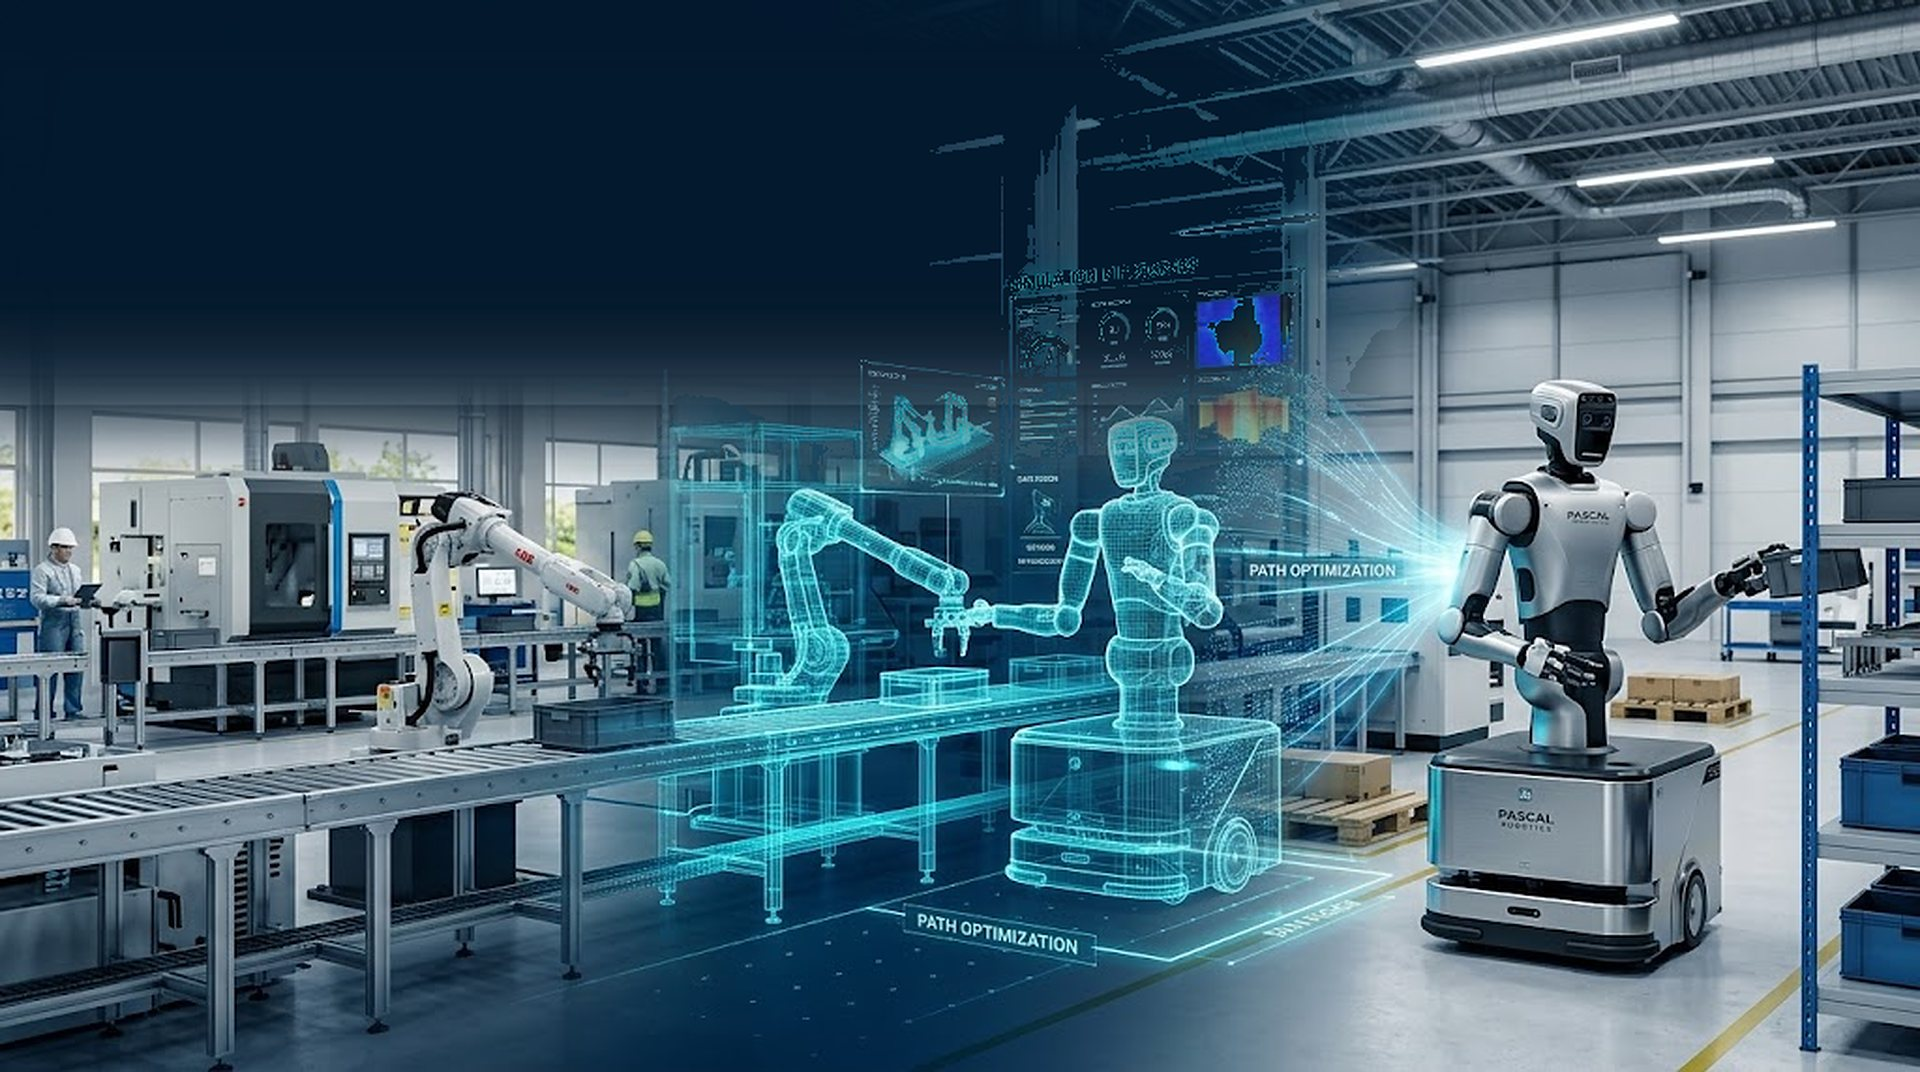
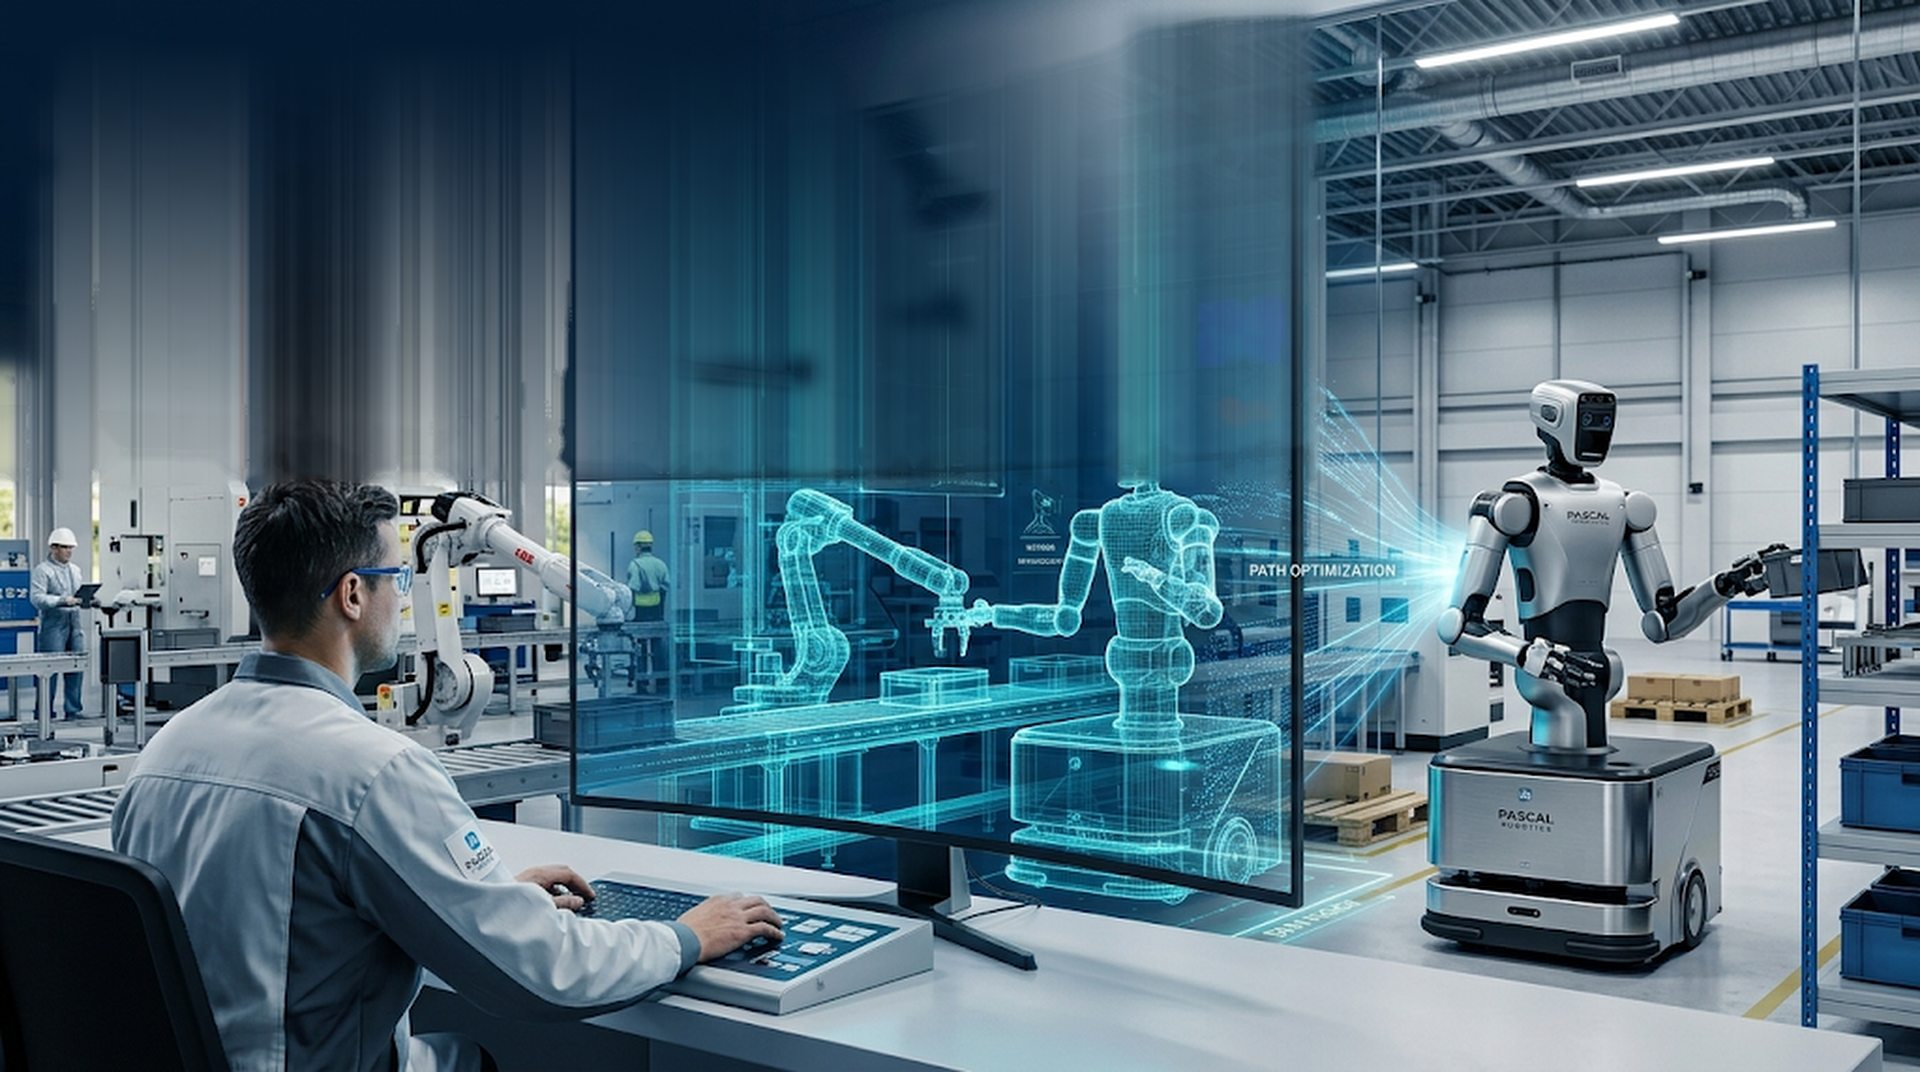
Center Digital Twin hero with lighter overlay and new image.
Clear baked-in FR copy from the operator/screen/robot hero, shrink and center typography, and keep the intelligence block as the second section.

diff --git a/index.html b/index.html
@@ -677,10 +677,10 @@ a, p, span, div { overflow-wrap:break-word; }
 /* Digital Twin landing hero */
 .hero-dt{
   position:relative;
-  min-height:min(92vh,920px);
+  min-height:min(88vh,880px);
   display:flex;
   align-items:stretch;
-  padding:0 0 56px;
+  padding:0;
   overflow:hidden;
   isolation:isolate;
 }
@@ -688,7 +688,7 @@ a, p, span, div { overflow-wrap:break-word; }
   position:absolute;
   inset:0;
   background-size:cover;
-  background-position:center 40%;
+  background-position:center 42%;
   background-repeat:no-repeat;
   z-index:0;
   transform:scale(1.02);
@@ -697,73 +697,82 @@ a, p, span, div { overflow-wrap:break-word; }
   position:absolute;
   inset:0;
   z-index:1;
+  /* Light vignette + soft bottom fade — image stays dominant */
   background:
-    linear-gradient(90deg,rgba(4,10,16,.88) 0%,rgba(4,10,16,.62) 42%,rgba(4,10,16,.28) 68%,rgba(4,10,16,.45) 100%),
-    linear-gradient(180deg,rgba(5,10,14,.55) 0%,rgba(5,10,14,.18) 38%,rgba(5,10,14,.72) 100%);
+    radial-gradient(ellipse 70% 55% at 50% 48%,rgba(4,10,16,.34) 0%,rgba(4,10,16,.12) 55%,rgba(4,10,16,.22) 100%),
+    linear-gradient(180deg,rgba(5,10,14,.18) 0%,rgba(5,10,14,.06) 42%,rgba(5,10,14,.38) 100%);
   pointer-events:none;
 }
 .hero-dt-inner{
   position:relative;
   z-index:2;
   width:100%;
-  padding-top:28px;
+  padding:48px 0 56px;
   display:flex;
   flex-direction:column;
-  justify-content:flex-end;
+  align-items:center;
+  justify-content:center;
   min-height:inherit;
   box-sizing:border-box;
+  text-align:center;
 }
 
 .hero-dt-logo{
   display:flex;
   justify-content:center;
-  margin:0 0 28px;
+  margin:0 0 16px;
 }
 .hero-dt-logo img{
-  width:min(200px,42vw);
+  width:min(140px,36vw);
   height:auto;
   display:block;
-  filter:drop-shadow(0 10px 28px rgba(0,0,0,.45));
-  opacity:.95;
+  filter:drop-shadow(0 8px 22px rgba(0,0,0,.4));
+  opacity:.92;
 }
 @media (max-width: 760px) {
-  .hero-dt-logo{margin:0 0 18px}
-  .hero-dt-logo img{width:min(160px,48vw)}
+  .hero-dt-logo{margin:0 0 12px}
+  .hero-dt-logo img{width:min(112px,40vw)}
 }
 
 .hero-dt-content{
-  max-width:820px;
-  text-align:left;
+  max-width:640px;
+  width:100%;
+  margin:0 auto;
+  text-align:center;
 }
 .hero-dt-content .eyebrow{
   color:var(--blue);
-  margin-bottom:14px;
+  margin-bottom:10px;
+  font-size:11px;
+  letter-spacing:.14em;
+  text-transform:uppercase;
 }
 .hero-dt-content h1{
-  font-size:clamp(42px,6.4vw,84px);
-  line-height:.94;
-  letter-spacing:-.055em;
-  margin:0 0 16px;
+  font-size:clamp(32px,4.2vw,56px);
+  line-height:1.05;
+  letter-spacing:-.04em;
+  margin:0 0 12px;
   font-weight:900;
   color:#fff;
-  text-shadow:0 2px 28px rgba(0,0,0,.45);
+  text-shadow:0 2px 20px rgba(0,0,0,.4);
 }
 .hero-dt-content h1 .soft{
   color:var(--blue);
 }
 .hero-dt-content .lead{
-  margin:0 0 22px;
-  max-width:640px;
-  color:#d7e2e8;
-  font-size:clamp(16px,1.7vw,21px);
-  line-height:1.45;
-  text-shadow:0 1px 12px rgba(0,0,0,.35);
+  margin:0 auto 18px;
+  max-width:520px;
+  color:#e2eaef;
+  font-size:clamp(14px,1.35vw,17px);
+  line-height:1.4;
+  text-shadow:0 1px 10px rgba(0,0,0,.35);
 }
 .hero-dt-content .actions{
-  justify-content:flex-start;
+  justify-content:center;
+  flex-wrap:wrap;
 }
 .hero-dt-content .btn:not(.primary){
-  background:rgba(8,14,18,.55);
+  background:rgba(8,14,18,.45);
   backdrop-filter:blur(8px);
   border-color:rgba(255,255,255,.28);
   color:#f4f8fa;
@@ -812,18 +821,20 @@ a, p, span, div { overflow-wrap:break-word; }
 
 @media (max-width: 760px) {
   .hero-dt{
-    min-height:min(78vh,720px);
-    align-items:flex-end;
-    padding:0 0 36px;
+    min-height:min(76vh,700px);
+    align-items:stretch;
+    padding:0;
   }
-  .hero-dt-bg{background-position:72% 40%}
+  .hero-dt-inner{padding:36px 0 40px}
+  .hero-dt-bg{background-position:58% 40%}
   .hero-dt-overlay{
     background:
-      linear-gradient(180deg,rgba(4,10,16,.55) 0%,rgba(4,10,16,.35) 35%,rgba(4,10,16,.82) 100%),
-      linear-gradient(90deg,rgba(4,10,16,.75) 0%,rgba(4,10,16,.35) 100%);
+      radial-gradient(ellipse 80% 60% at 50% 48%,rgba(4,10,16,.40) 0%,rgba(4,10,16,.16) 58%,rgba(4,10,16,.28) 100%),
+      linear-gradient(180deg,rgba(5,10,14,.22) 0%,rgba(5,10,14,.08) 40%,rgba(5,10,14,.48) 100%);
   }
-  .hero-dt-content h1{font-size:clamp(34px,10vw,52px)}
-  .hero-dt-content .actions{gap:10px}
+  .hero-dt-content h1{font-size:clamp(28px,8vw,42px)}
+  .hero-dt-content .lead{font-size:clamp(13px,3.6vw,15px)}
+  .hero-dt-content .actions{gap:10px;justify-content:center}
   .hero-secondary{padding:28px 0 22px}
   .hero-secondary h2{font-size:clamp(26px,8vw,36px)}
 }
